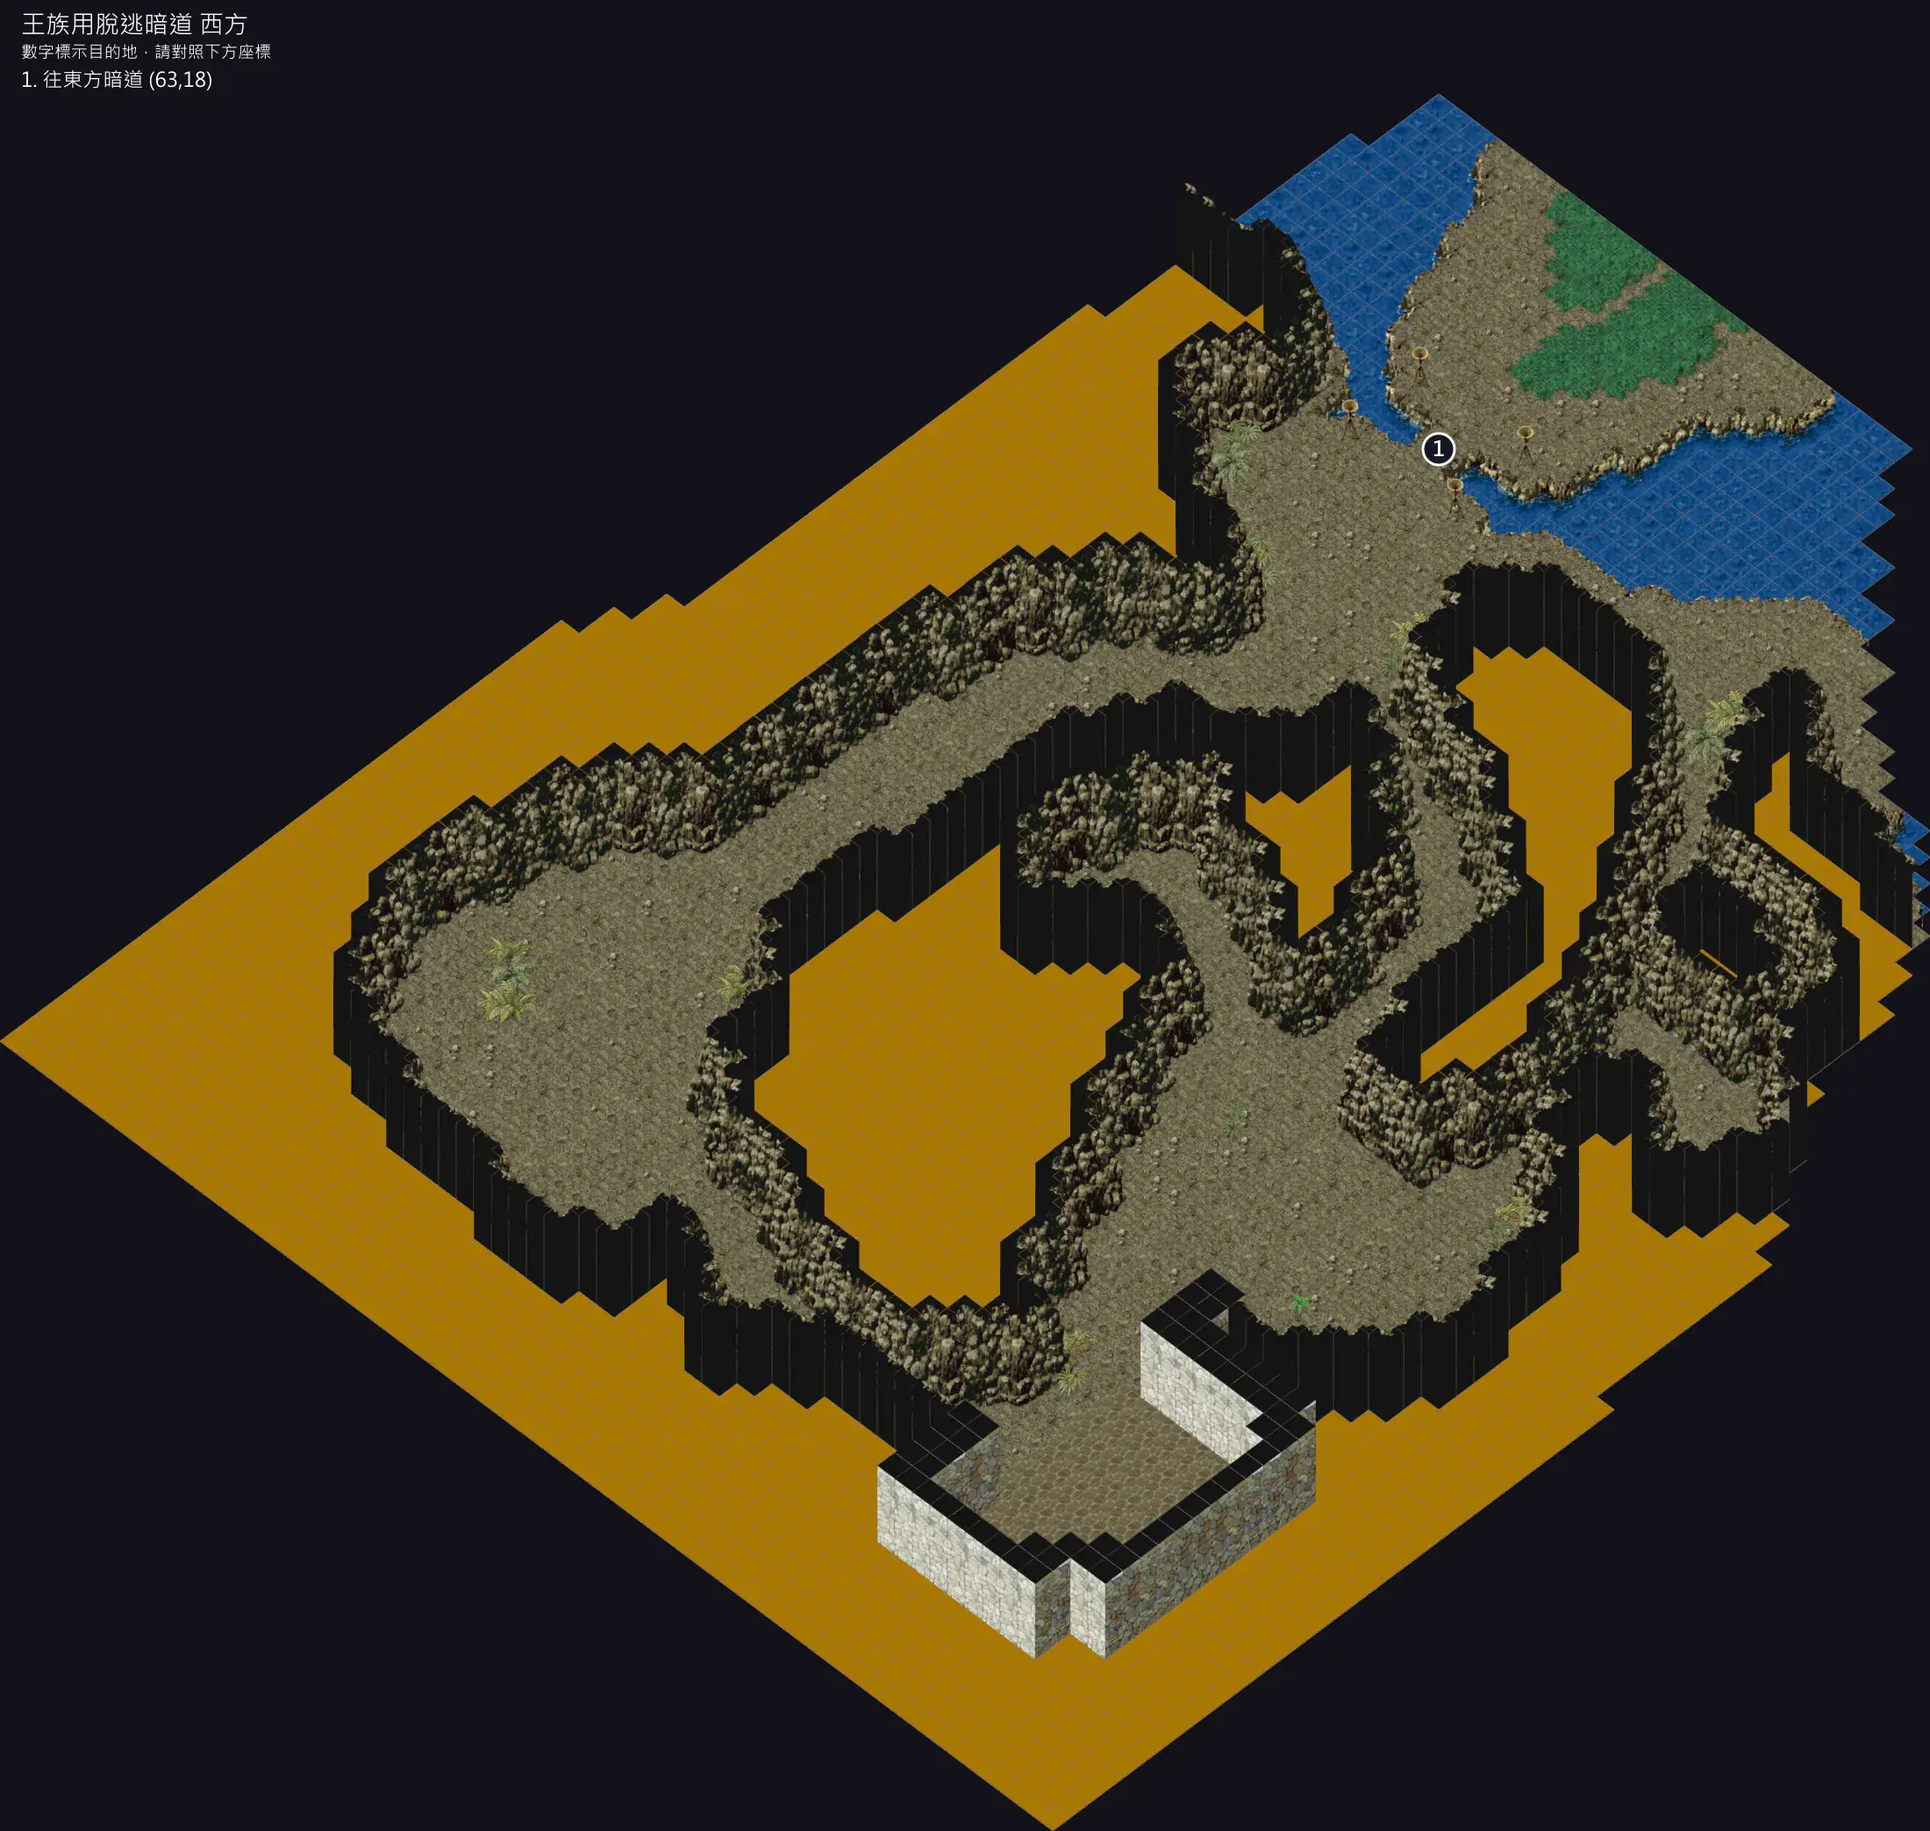
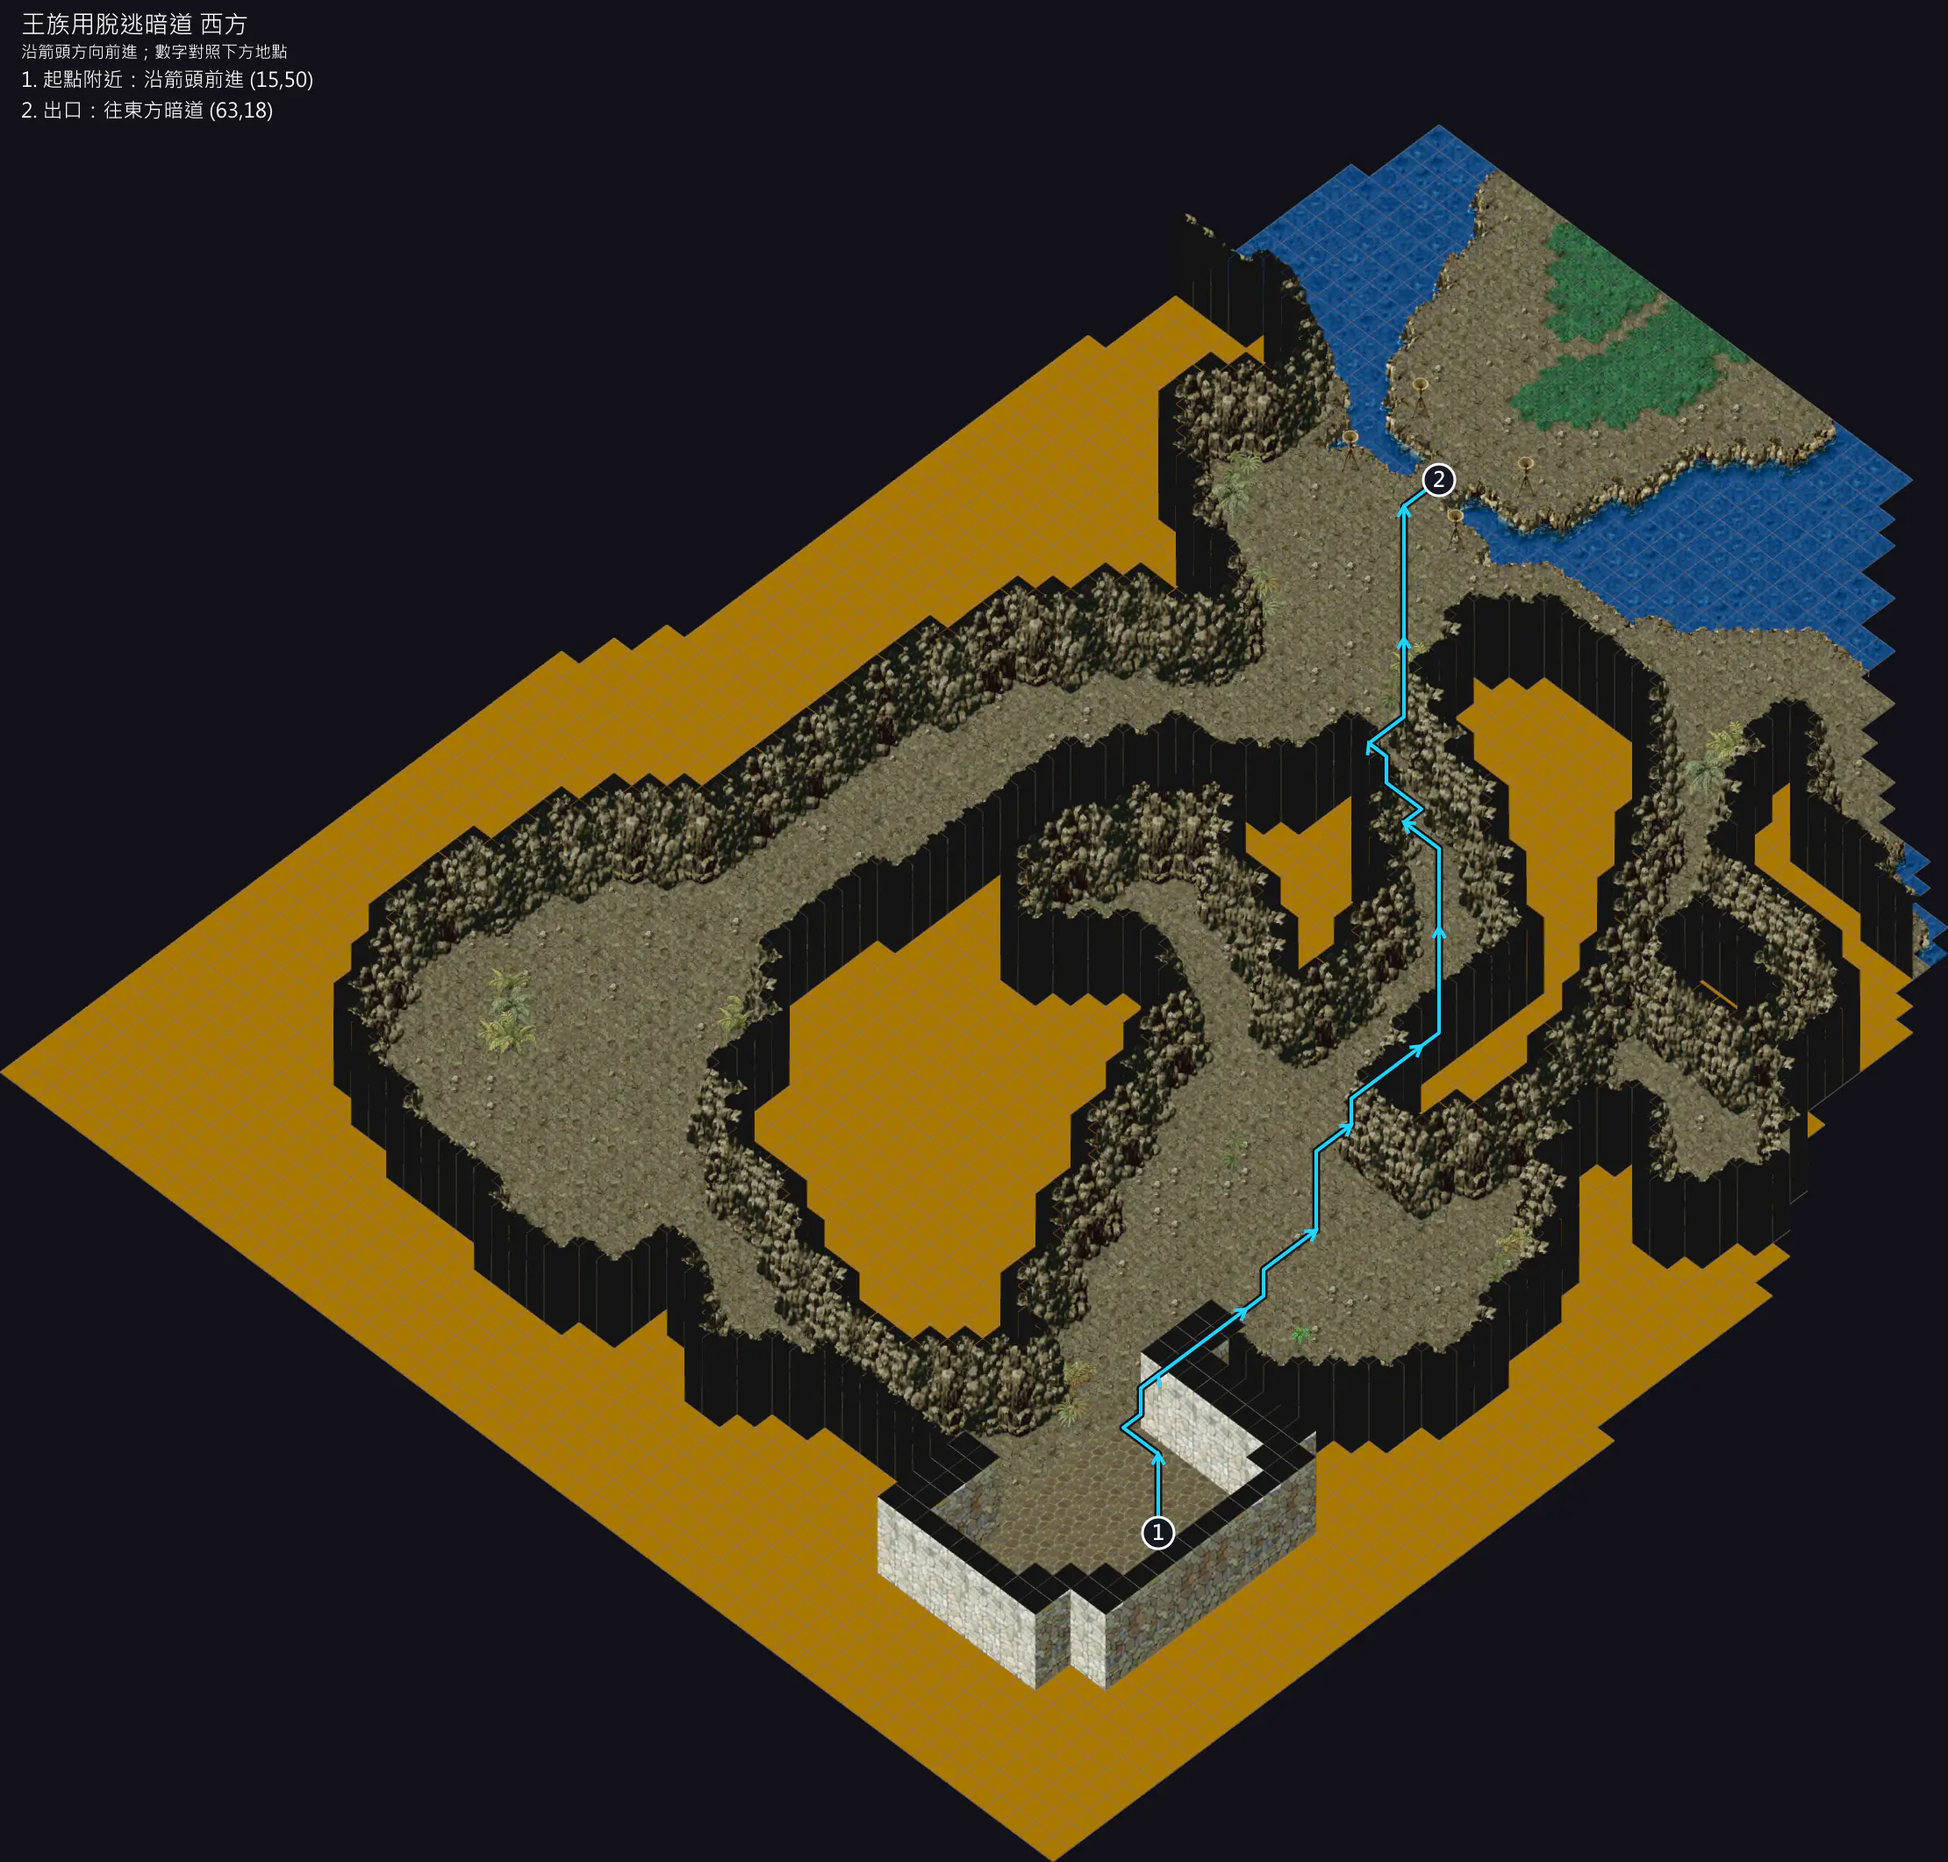
更新五等勳章西方暗道地圖並精簡出口說明

Changed region(s): [[0.0, 0.0311, 1.0, 1.0], [0.0, 0.0, 0.1545, 0.0623]]

diff --git a/content/pages/任務攻略/魔力任務/五等勳章.md b/content/pages/任務攻略/魔力任務/五等勳章.md
@@ -65,13 +65,11 @@ breadcrumb:
 
 ### 3. 穿過西方、東方暗道
 
-到西方暗道後，找 **`(63,18)`** 的出口前往東方暗道。進入東方後，從 **`(11,79)`** 一帶繼續前進。
+進入西方暗道後，從 **1 號** `(15,50)` 附近出發，沿箭頭走到 **2 號出口** `(63,18)`，前往東方暗道。進入東方後，從 **`(11,79)`** 一帶繼續前進。
 
-<a href="/img/pages/任務攻略/魔力任務/五等勳章/33119.webp"><img src="/img/pages/任務攻略/魔力任務/五等勳章/33119.webp" alt="王族用脫逃暗道西方：往東方暗道出口63,18" width="2200" height="2087" loading="lazy" decoding="async" /></a>
+<a href="/img/pages/任務攻略/魔力任務/五等勳章/33119.webp"><img src="/img/pages/任務攻略/魔力任務/五等勳章/33119.webp" alt="王族用脫逃暗道西方：從15,50附近沿箭頭走到出口63,18，前往東方暗道" width="2220" height="2122" loading="lazy" decoding="async" /></a>
 
 東方暗道沿圖示路線前往 **`(43,5)`**，進大樹1樓後落在 `(28,37)`。
-
-> **出口提醒：** 舊攻略常寫 `(43,7)`，抵達附近後請繼續走到 **`(43,5)`** 才會換圖。
 
 <a href="/img/pages/任務攻略/魔力任務/五等勳章/33120.webp"><img src="/img/pages/任務攻略/魔力任務/五等勳章/33120.webp" alt="王族用脫逃暗道東方：11,79至出口43,5" width="2608" height="2124" loading="lazy" decoding="async" /></a>
 
